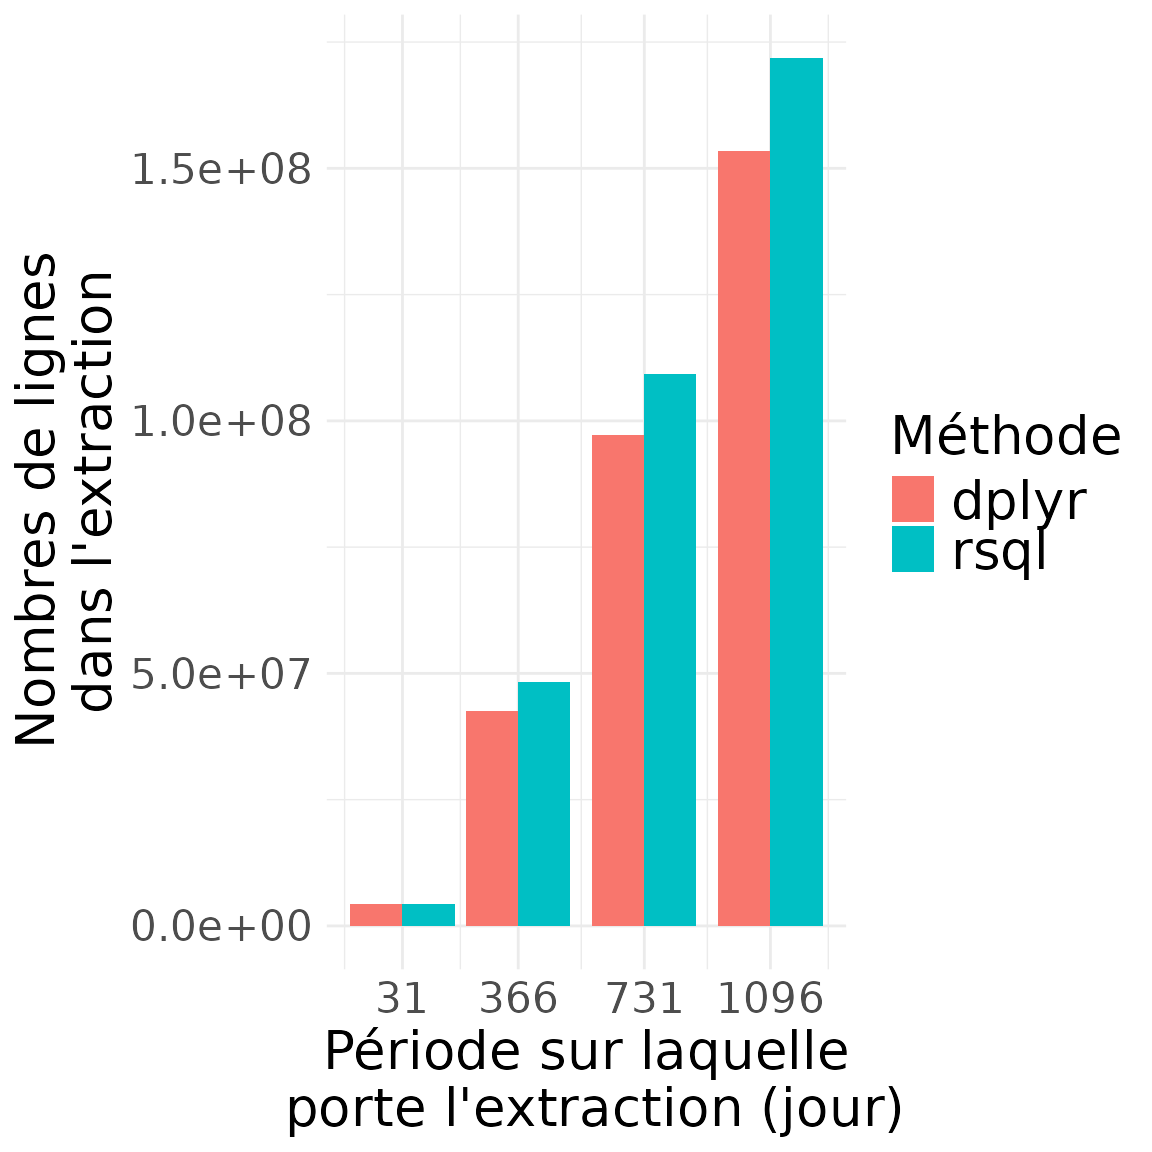
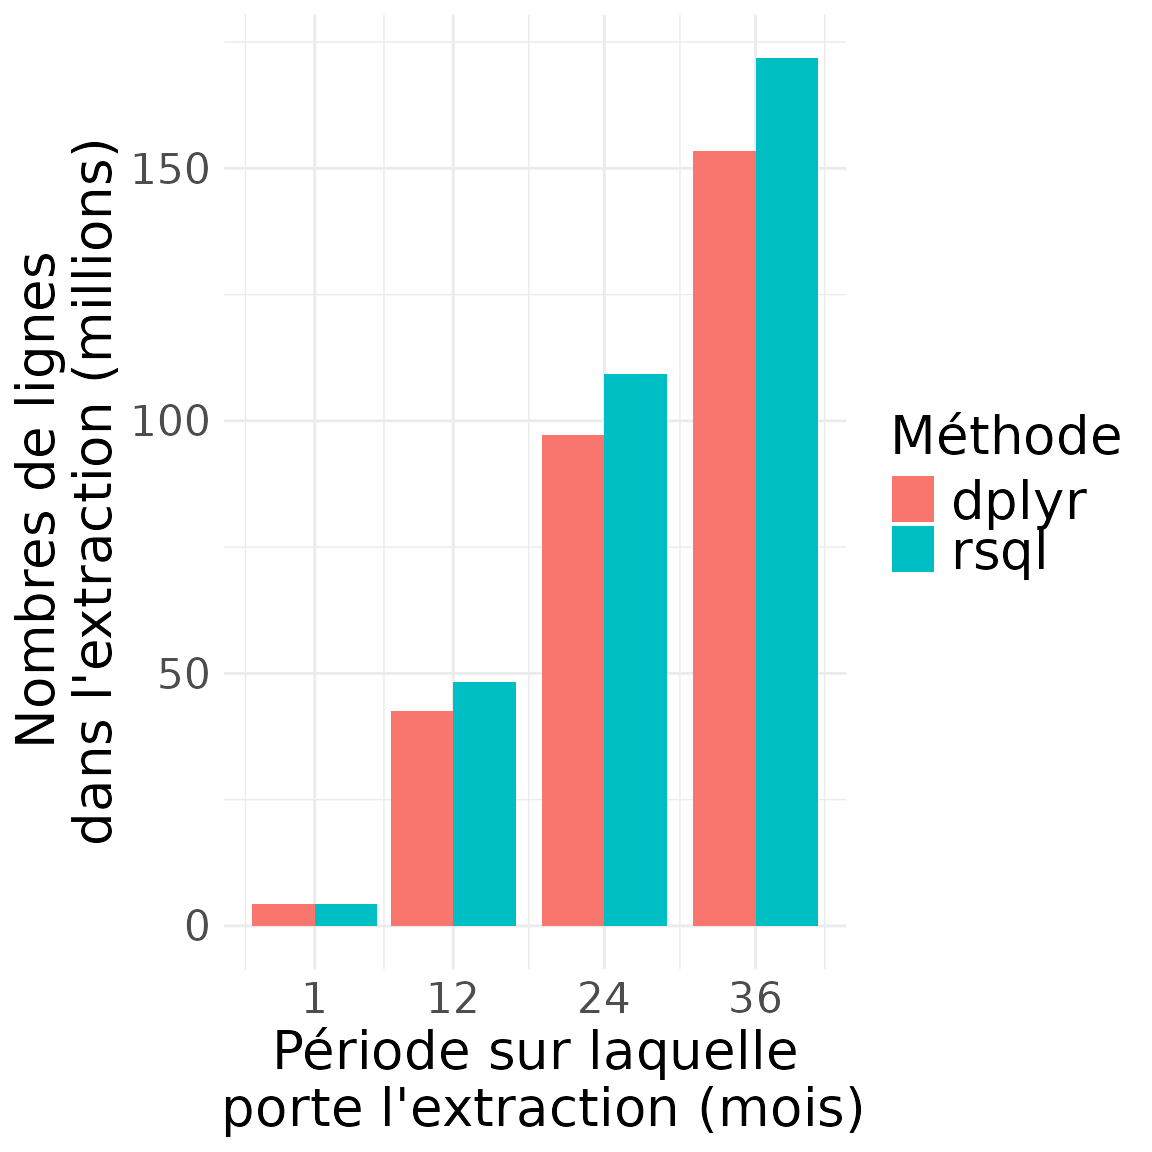
Deploy preview for PR 52 🛫

diff --git a/pr-preview/pr-52/articles/benchmark_dplyr_vs_rsql.html b/pr-preview/pr-52/articles/benchmark_dplyr_vs_rsql.html
@@ -202,7 +202,10 @@ flux.</p>
 <span>  time_taken_sql_minutes <span class="op">=</span> <span class="va">time_taken_sql</span> <span class="op">/</span> <span class="fl">60</span></span>
 <span><span class="op">)</span> <span class="op">|&gt;</span></span>
 <span>  <span class="fu">dplyr</span><span class="fu">::</span><span class="fu"><a href="https://dplyr.tidyverse.org/reference/mutate.html" class="external-link">mutate</a></span><span class="op">(</span></span>
-<span>    period_days <span class="op">=</span> <span class="fu"><a href="https://rdrr.io/r/base/numeric.html" class="external-link">as.numeric</a></span><span class="op">(</span><span class="fu"><a href="https://rdrr.io/r/base/as.Date.html" class="external-link">as.Date</a></span><span class="op">(</span><span class="va">end_date</span><span class="op">)</span> <span class="op">-</span> <span class="fu"><a href="https://rdrr.io/r/base/as.Date.html" class="external-link">as.Date</a></span><span class="op">(</span><span class="va">start_date</span><span class="op">)</span><span class="op">)</span></span>
+<span>    query_period_days <span class="op">=</span> <span class="fu"><a href="https://rdrr.io/r/base/numeric.html" class="external-link">as.numeric</a></span><span class="op">(</span><span class="fu"><a href="https://rdrr.io/r/base/as.Date.html" class="external-link">as.Date</a></span><span class="op">(</span><span class="va">end_date</span><span class="op">)</span> <span class="op">-</span> <span class="fu"><a href="https://rdrr.io/r/base/as.Date.html" class="external-link">as.Date</a></span><span class="op">(</span><span class="va">start_date</span><span class="op">)</span><span class="op">)</span>,</span>
+<span>    query_period_months <span class="op">=</span> <span class="fu"><a href="https://rdrr.io/r/base/integer.html" class="external-link">as.integer</a></span><span class="op">(</span><span class="va">query_period_days</span> <span class="op">/</span> <span class="fl">30</span><span class="op">)</span>,</span>
+<span>    speed_dplyr_nrows_sec <span class="op">=</span> <span class="va">n_rows_dplyr</span> <span class="op">/</span> <span class="va">time_taken_dplyr</span>,</span>
+<span>    speed_sql_nrows_sec <span class="op">=</span> <span class="va">n_rows_sql</span> <span class="op">/</span> <span class="va">time_taken_sql</span></span>
 <span>  <span class="op">)</span></span>
 <span><span class="va">timing_results</span></span></code></pre></div>
 <pre><code><span><span class="co">##   start_date   end_date time_taken_dplyr time_taken_sql n_rows_dplyr n_rows_sql</span></span>
@@ -210,11 +213,16 @@ flux.</p>
 <span><span class="co">## 2 2020-01-01 2021-01-01        2481.1538      2924.7824     42458351   48271076</span></span>
 <span><span class="co">## 3 2020-01-01 2022-01-01        1207.4079      1455.3371     97138010  109269375</span></span>
 <span><span class="co">## 4 2020-01-01 2023-01-01        1950.7323      2267.7857    153406576  171841893</span></span>
-<span><span class="co">##   time_taken_dplyr_minutes time_taken_sql_minutes period_days</span></span>
-<span><span class="co">## 1                 4.756247               4.859593          31</span></span>
-<span><span class="co">## 2                41.352563              48.746374         366</span></span>
-<span><span class="co">## 3                20.123465              24.255618         731</span></span>
-<span><span class="co">## 4                32.512205              37.796429        1096</span></span></code></pre>
+<span><span class="co">##   time_taken_dplyr_minutes time_taken_sql_minutes query_period_days</span></span>
+<span><span class="co">## 1                 4.756247               4.859593                31</span></span>
+<span><span class="co">## 2                41.352563              48.746374               366</span></span>
+<span><span class="co">## 3                20.123465              24.255618               731</span></span>
+<span><span class="co">## 4                32.512205              37.796429              1096</span></span>
+<span><span class="co">##   query_period_months speed_dplyr_nrows_sec speed_sql_nrows_sec</span></span>
+<span><span class="co">## 1                   1              15217.22            14945.96</span></span>
+<span><span class="co">## 2                  12              17112.34            16504.16</span></span>
+<span><span class="co">## 3                  24              80451.69            75081.83</span></span>
+<span><span class="co">## 4                  36              78640.51            75775.19</span></span></code></pre>
 </div>
 <div class="section level2">
 <h2 id="résultats-sur-la-durée-des-extractions">Résultats sur la durée des extractions<a class="anchor" aria-label="anchor" href="#r%C3%A9sultats-sur-la-dur%C3%A9e-des-extractions"></a>
@@ -224,6 +232,8 @@ flux.</p>
 <span><span class="kw"><a href="https://rdrr.io/r/base/library.html" class="external-link">library</a></span><span class="op">(</span><span class="va"><a href="https://ggplot2.tidyverse.org" class="external-link">ggplot2</a></span><span class="op">)</span></span>
 <span></span>
 <span><span class="va">label_size</span> <span class="op">&lt;-</span> <span class="fl">20</span></span>
+<span></span>
+<span><span class="va">x_breaks</span> <span class="op">&lt;-</span> <span class="fu"><a href="https://rdrr.io/r/base/unique.html" class="external-link">unique</a></span><span class="op">(</span><span class="va">timing_results</span><span class="op">$</span><span class="va">query_period_months</span><span class="op">)</span></span>
 <span><span class="va">timing_results</span> <span class="op">|&gt;</span></span>
 <span>  <span class="fu">dplyr</span><span class="fu">::</span><span class="fu"><a href="https://dplyr.tidyverse.org/reference/rename.html" class="external-link">rename</a></span><span class="op">(</span></span>
 <span>    dplyr<span class="op">=</span><span class="va">time_taken_dplyr_minutes</span>, rsql<span class="op">=</span><span class="va">time_taken_sql_minutes</span><span class="op">)</span> <span class="op">|&gt;</span></span>
@@ -232,11 +242,11 @@ flux.</p>
 <span>    names_to <span class="op">=</span> <span class="st">"Méthode"</span>,</span>
 <span>    values_to <span class="op">=</span> <span class="st">"duration"</span></span>
 <span>  <span class="op">)</span> <span class="op">|&gt;</span></span>
-<span>  <span class="fu"><a href="https://ggplot2.tidyverse.org/reference/ggplot.html" class="external-link">ggplot</a></span><span class="op">(</span><span class="fu"><a href="https://ggplot2.tidyverse.org/reference/aes.html" class="external-link">aes</a></span><span class="op">(</span>x <span class="op">=</span> <span class="va">period_days</span>, y <span class="op">=</span> <span class="va">duration</span>, fill <span class="op">=</span> <span class="va">Méthode</span><span class="op">)</span><span class="op">)</span> <span class="op">+</span></span>
+<span>  <span class="fu"><a href="https://ggplot2.tidyverse.org/reference/ggplot.html" class="external-link">ggplot</a></span><span class="op">(</span><span class="fu"><a href="https://ggplot2.tidyverse.org/reference/aes.html" class="external-link">aes</a></span><span class="op">(</span>x <span class="op">=</span> <span class="va">query_period_months</span>, y <span class="op">=</span> <span class="va">duration</span>, fill <span class="op">=</span> <span class="va">Méthode</span><span class="op">)</span><span class="op">)</span> <span class="op">+</span></span>
 <span>  <span class="fu"><a href="https://ggplot2.tidyverse.org/reference/geom_bar.html" class="external-link">geom_col</a></span><span class="op">(</span>position <span class="op">=</span> <span class="st">"dodge"</span><span class="op">)</span> <span class="op">+</span></span>
-<span>  <span class="fu"><a href="https://ggplot2.tidyverse.org/reference/scale_continuous.html" class="external-link">scale_x_continuous</a></span><span class="op">(</span>breaks <span class="op">=</span> <span class="fu"><a href="https://rdrr.io/r/base/unique.html" class="external-link">unique</a></span><span class="op">(</span><span class="va">timing_results</span><span class="op">$</span><span class="va">period_days</span><span class="op">)</span><span class="op">)</span> <span class="op">+</span></span>
+<span>  <span class="fu"><a href="https://ggplot2.tidyverse.org/reference/scale_continuous.html" class="external-link">scale_x_continuous</a></span><span class="op">(</span>breaks <span class="op">=</span> <span class="va">x_breaks</span><span class="op">)</span> <span class="op">+</span></span>
 <span>  <span class="fu"><a href="https://ggplot2.tidyverse.org/reference/labs.html" class="external-link">labs</a></span><span class="op">(</span></span>
-<span>    x <span class="op">=</span> <span class="st">"Période sur laquelle\n porte l'extraction(jour)"</span>,</span>
+<span>    x <span class="op">=</span> <span class="st">"Période sur laquelle\n porte l'extraction (mois)"</span>,</span>
 <span>    y <span class="op">=</span> <span class="st">"Temps pris par l'extraction\n sur le portail (minutes)"</span>,</span>
 <span>    fill <span class="op">=</span> <span class="st">"Méthode"</span></span>
 <span>  <span class="op">)</span> <span class="op">+</span></span>
@@ -264,12 +274,12 @@ flux.</p>
 <span>    names_to <span class="op">=</span> <span class="st">"Méthode"</span>,</span>
 <span>    values_to <span class="op">=</span> <span class="st">"n_rows"</span></span>
 <span>  <span class="op">)</span> <span class="op">|&gt;</span></span>
-<span>  <span class="fu"><a href="https://ggplot2.tidyverse.org/reference/ggplot.html" class="external-link">ggplot</a></span><span class="op">(</span><span class="fu"><a href="https://ggplot2.tidyverse.org/reference/aes.html" class="external-link">aes</a></span><span class="op">(</span>x <span class="op">=</span> <span class="va">period_days</span>, y <span class="op">=</span> <span class="va">n_rows</span>, fill <span class="op">=</span> <span class="va">Méthode</span><span class="op">)</span><span class="op">)</span> <span class="op">+</span></span>
+<span>  <span class="fu"><a href="https://ggplot2.tidyverse.org/reference/ggplot.html" class="external-link">ggplot</a></span><span class="op">(</span><span class="fu"><a href="https://ggplot2.tidyverse.org/reference/aes.html" class="external-link">aes</a></span><span class="op">(</span>x <span class="op">=</span> <span class="va">query_period_months</span>, y <span class="op">=</span> <span class="va">n_rows</span><span class="op">/</span><span class="fl">1e6</span>, fill <span class="op">=</span> <span class="va">Méthode</span><span class="op">)</span><span class="op">)</span> <span class="op">+</span></span>
 <span>  <span class="fu"><a href="https://ggplot2.tidyverse.org/reference/geom_bar.html" class="external-link">geom_col</a></span><span class="op">(</span>position <span class="op">=</span> <span class="st">"dodge"</span><span class="op">)</span> <span class="op">+</span></span>
-<span>  <span class="fu"><a href="https://ggplot2.tidyverse.org/reference/scale_continuous.html" class="external-link">scale_x_continuous</a></span><span class="op">(</span>breaks <span class="op">=</span> <span class="fu"><a href="https://rdrr.io/r/base/unique.html" class="external-link">unique</a></span><span class="op">(</span><span class="va">timing_results</span><span class="op">$</span><span class="va">period_days</span><span class="op">)</span><span class="op">)</span> <span class="op">+</span></span>
+<span>  <span class="fu"><a href="https://ggplot2.tidyverse.org/reference/scale_continuous.html" class="external-link">scale_x_continuous</a></span><span class="op">(</span>breaks <span class="op">=</span> <span class="va">x_breaks</span><span class="op">)</span> <span class="op">+</span></span>
 <span>  <span class="fu"><a href="https://ggplot2.tidyverse.org/reference/labs.html" class="external-link">labs</a></span><span class="op">(</span></span>
-<span>    x <span class="op">=</span> <span class="st">"Période sur laquelle\n porte l'extraction (jour)"</span>,</span>
-<span>    y <span class="op">=</span> <span class="st">"Nombres de lignes \ndans l'extraction"</span>,</span>
+<span>    x <span class="op">=</span> <span class="st">"Période sur laquelle\n porte l'extraction (mois)"</span>,</span>
+<span>    y <span class="op">=</span> <span class="st">"Nombres de lignes \ndans l'extraction (millions)"</span>,</span>
 <span>    fill <span class="op">=</span> <span class="st">"Méthode"</span></span>
 <span>  <span class="op">)</span> <span class="op">+</span></span>
 <span>  <span class="fu"><a href="https://ggplot2.tidyverse.org/reference/ggtheme.html" class="external-link">theme_minimal</a></span><span class="op">(</span><span class="op">)</span> <span class="op">+</span></span>
@@ -280,6 +290,38 @@ flux.</p>
 <span>    legend.text <span class="op">=</span> <span class="fu"><a href="https://ggplot2.tidyverse.org/reference/element.html" class="external-link">element_text</a></span><span class="op">(</span>size <span class="op">=</span> <span class="va">label_size</span><span class="op">)</span></span>
 <span>  <span class="op">)</span></span></code></pre></div>
 <p><img src="benchmark_dplyr_vs_rsql_files/figure-html/unnamed-chunk-4-1.png" width="576"></p>
+</div>
+<div class="section level2">
+<h2 id="vitesse-dextraction-en-ligne-extraite-par-minute">Vitesse d’extraction (en ligne extraite par minute)<a class="anchor" aria-label="anchor" href="#vitesse-dextraction-en-ligne-extraite-par-minute"></a>
+</h2>
+<div class="sourceCode" id="cb6"><pre class="downlit sourceCode r">
+<code class="sourceCode R"><span><span class="co"># plot time results</span></span>
+<span><span class="kw"><a href="https://rdrr.io/r/base/library.html" class="external-link">library</a></span><span class="op">(</span><span class="va"><a href="https://ggplot2.tidyverse.org" class="external-link">ggplot2</a></span><span class="op">)</span></span>
+<span></span>
+<span><span class="va">label_size</span> <span class="op">&lt;-</span> <span class="fl">20</span></span>
+<span><span class="va">timing_results</span> <span class="op">|&gt;</span></span>
+<span>  <span class="fu">dplyr</span><span class="fu">::</span><span class="fu"><a href="https://dplyr.tidyverse.org/reference/rename.html" class="external-link">rename</a></span><span class="op">(</span>dplyr<span class="op">=</span><span class="va">speed_dplyr_nrows_sec</span>, rsql<span class="op">=</span><span class="va">speed_sql_nrows_sec</span><span class="op">)</span> <span class="op">|&gt;</span></span>
+<span>  <span class="fu">tidyr</span><span class="fu">::</span><span class="fu"><a href="https://tidyr.tidyverse.org/reference/pivot_longer.html" class="external-link">pivot_longer</a></span><span class="op">(</span></span>
+<span>    cols <span class="op">=</span> <span class="fu"><a href="https://rdrr.io/r/base/c.html" class="external-link">c</a></span><span class="op">(</span><span class="va">dplyr</span>, <span class="va">rsql</span><span class="op">)</span>,</span>
+<span>    names_to <span class="op">=</span> <span class="st">"Méthode"</span>,</span>
+<span>    values_to <span class="op">=</span> <span class="st">"speed_nrows_sec"</span></span>
+<span>  <span class="op">)</span> <span class="op">|&gt;</span></span>
+<span>  <span class="fu"><a href="https://ggplot2.tidyverse.org/reference/ggplot.html" class="external-link">ggplot</a></span><span class="op">(</span><span class="fu"><a href="https://ggplot2.tidyverse.org/reference/aes.html" class="external-link">aes</a></span><span class="op">(</span>x <span class="op">=</span> <span class="va">query_period_months</span>, y <span class="op">=</span> <span class="va">speed_nrows_sec</span><span class="op">/</span><span class="fl">1000</span>, fill <span class="op">=</span> <span class="va">Méthode</span><span class="op">)</span><span class="op">)</span> <span class="op">+</span></span>
+<span>  <span class="fu"><a href="https://ggplot2.tidyverse.org/reference/geom_bar.html" class="external-link">geom_col</a></span><span class="op">(</span>position <span class="op">=</span> <span class="st">"dodge"</span><span class="op">)</span> <span class="op">+</span></span>
+<span>  <span class="fu"><a href="https://ggplot2.tidyverse.org/reference/scale_continuous.html" class="external-link">scale_x_continuous</a></span><span class="op">(</span>breaks <span class="op">=</span> <span class="va">x_breaks</span><span class="op">)</span> <span class="op">+</span></span>
+<span>  <span class="fu"><a href="https://ggplot2.tidyverse.org/reference/labs.html" class="external-link">labs</a></span><span class="op">(</span></span>
+<span>    x <span class="op">=</span> <span class="st">"Période sur laquelle\n porte l'extraction (mois)"</span>,</span>
+<span>    y <span class="op">=</span> <span class="st">"Vitesse d'extraction\n (en milliers de lignes par seconde)"</span>,</span>
+<span>    fill <span class="op">=</span> <span class="st">"Méthode"</span></span>
+<span>  <span class="op">)</span> <span class="op">+</span></span>
+<span>  <span class="fu"><a href="https://ggplot2.tidyverse.org/reference/ggtheme.html" class="external-link">theme_minimal</a></span><span class="op">(</span><span class="op">)</span> <span class="op">+</span></span>
+<span>  <span class="fu"><a href="https://ggplot2.tidyverse.org/reference/theme.html" class="external-link">theme</a></span><span class="op">(</span></span>
+<span>    text <span class="op">=</span> <span class="fu"><a href="https://ggplot2.tidyverse.org/reference/element.html" class="external-link">element_text</a></span><span class="op">(</span>size <span class="op">=</span> <span class="va">label_size</span><span class="op">)</span>,</span>
+<span>    axis.title <span class="op">=</span> <span class="fu"><a href="https://ggplot2.tidyverse.org/reference/element.html" class="external-link">element_text</a></span><span class="op">(</span>size <span class="op">=</span> <span class="va">label_size</span><span class="op">)</span>,</span>
+<span>    legend.title <span class="op">=</span> <span class="fu"><a href="https://ggplot2.tidyverse.org/reference/element.html" class="external-link">element_text</a></span><span class="op">(</span>size <span class="op">=</span> <span class="va">label_size</span><span class="op">)</span>,</span>
+<span>    legend.text <span class="op">=</span> <span class="fu"><a href="https://ggplot2.tidyverse.org/reference/element.html" class="external-link">element_text</a></span><span class="op">(</span>size <span class="op">=</span> <span class="va">label_size</span><span class="op">)</span></span>
+<span>  <span class="op">)</span></span></code></pre></div>
+<p><img src="benchmark_dplyr_vs_rsql_files/figure-html/unnamed-chunk-5-1.png" width="576"></p>
 </div>
   </main><aside class="col-md-3"><nav id="toc" aria-label="Table of contents"><h2>On this page</h2>
     </nav></aside>
